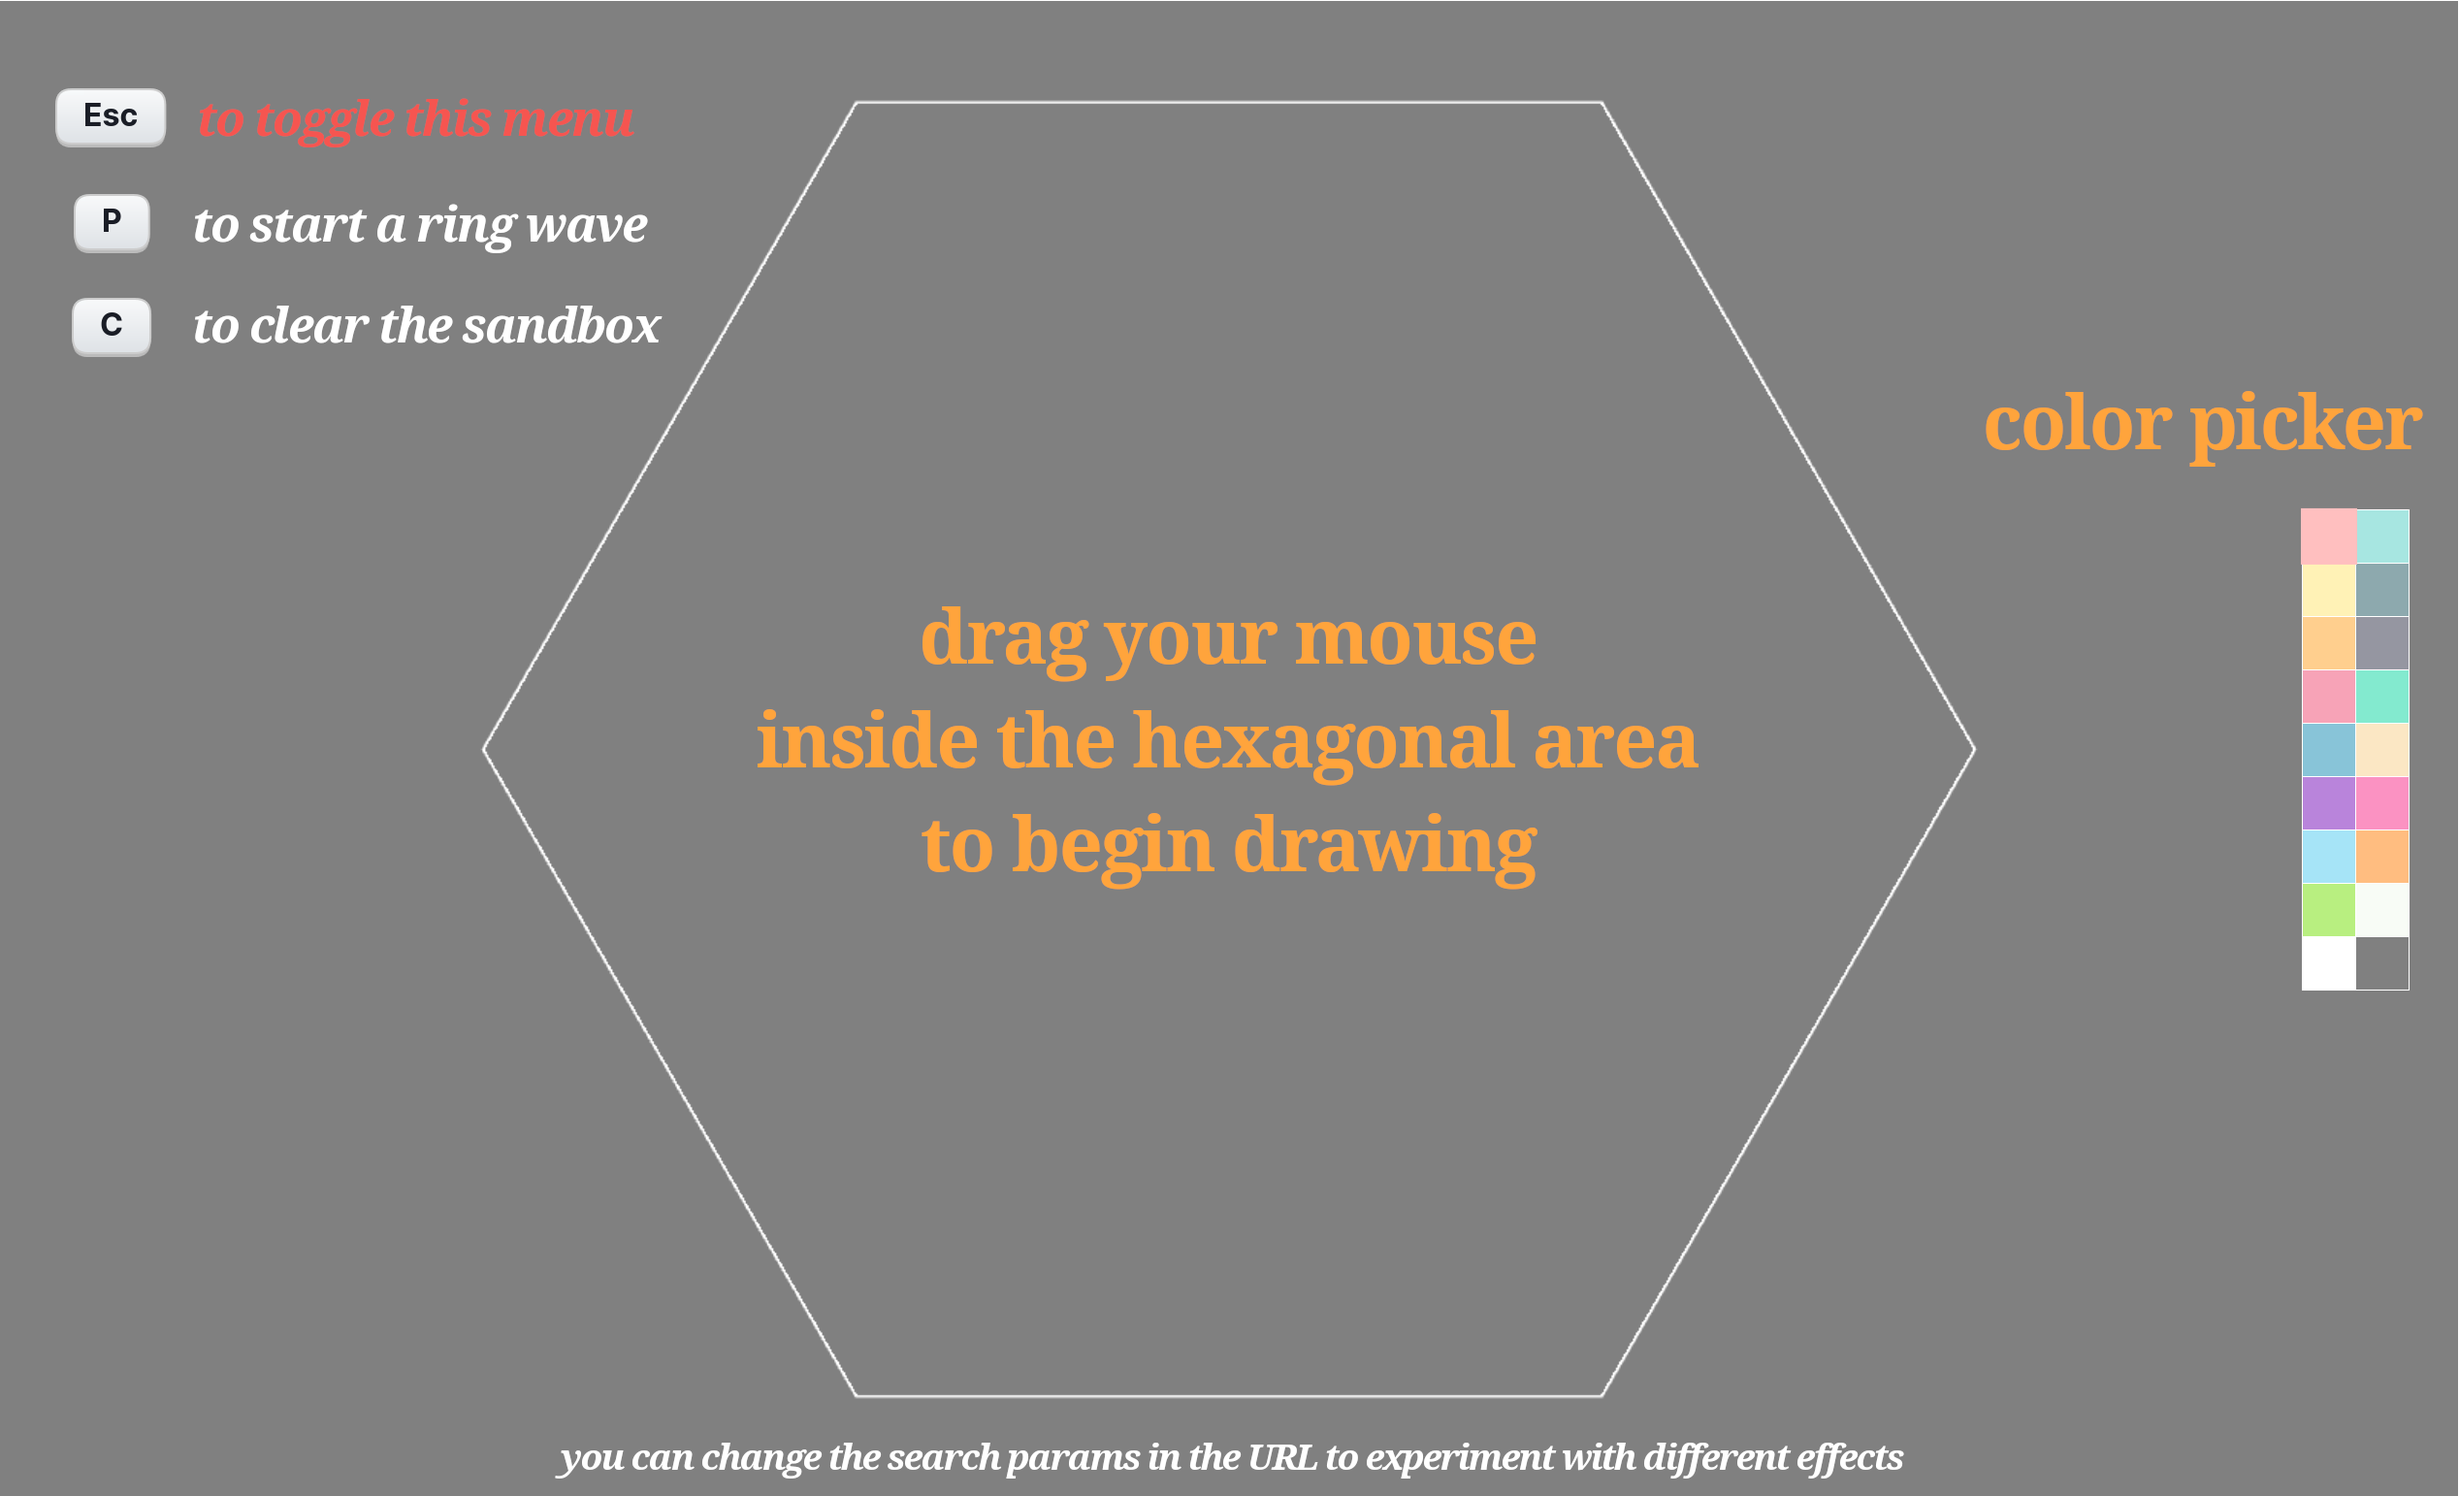
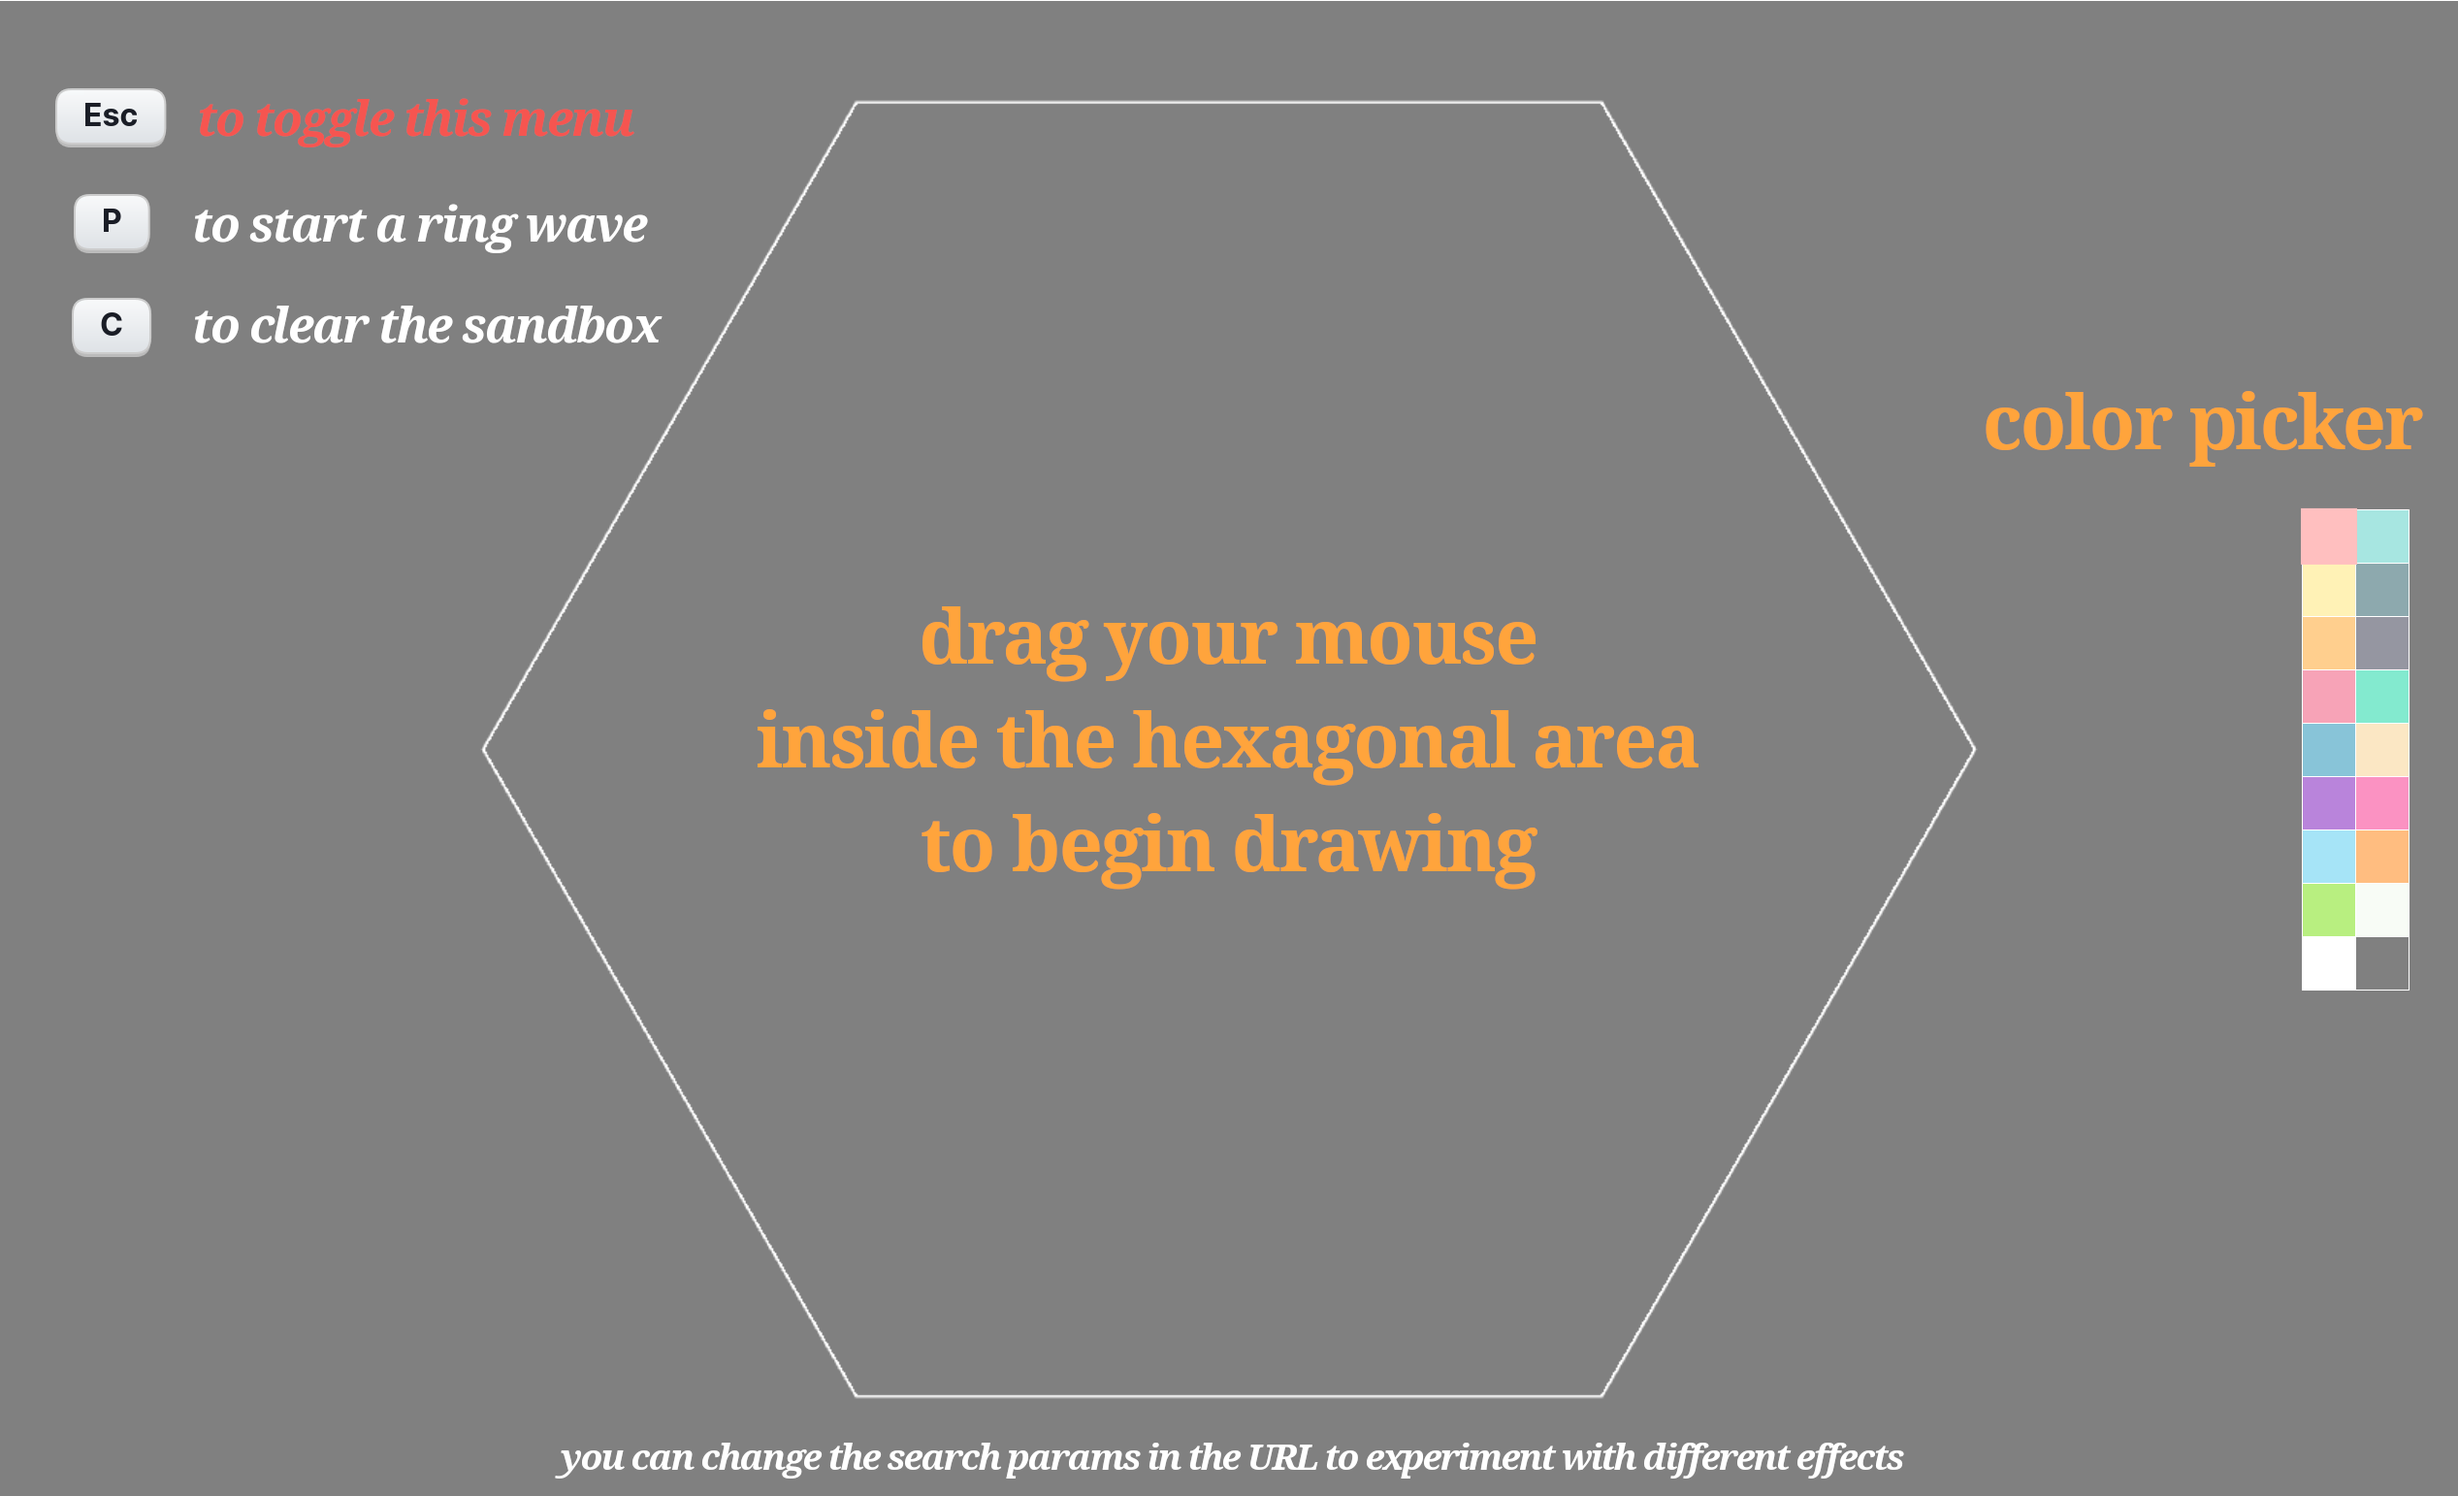
Info image & edge case fixes

Changed region(s): [[0.9976, 0.0, 1.0, 1.0], [0.6547, 0.965, 0.7482, 0.9961]]

diff --git a/js/index.js b/js/index.js
@@ -318,6 +318,9 @@ window.onkeyup = (e) => {
             throw "Couldn't find #info-curtain element.";
         info.style.display = show_info ? "block" : "none";
         crt.style.display = info.style.display;
+        shift_down = false;
+        mouse_down = false;
+        wave_queue.clear();
     }
 };
 const side_length = searchParams.getNumber("side_length", 32, 1), blend_value = searchParams.getNumber("blend_value", 0.008, 0, 1), wave_delay = searchParams.getNumber("wave_delay", 30, 1), wave_decay = searchParams.getNumber("wave_decay", 0.99, 0, 1), decay_min_radius = searchParams.getNumber("decay_min_radius", -2), new_wave_delay = searchParams.getNumber("new_wave_delay", 500, 1), new_wave_p = searchParams.getNumber("new_wave_p", 0.0002, 0, 1), new_color_p = searchParams.getNumber("new_color_p", 0.1, 0, 1), new_color_compl_p = searchParams.getNumber("new_color_compl_p", 0.5, 0, 1), grid_bg = searchParams.getUint8Color("grid_bg"), params = new URLSearchParams([
@@ -526,8 +529,10 @@ function draw() {
         const clear_color = packUint8(grid_bg);
         for (let i = 0; i < grid.adj_graph.length; ++i)
             grid.texture_u32view[i] = clear_color;
-        prevent_waves_last_id = wave_id + queued_wave_count;
-        wave_id = prevent_waves_last_id + 1;
+        if (queued_wave_count > 0) {
+            prevent_waves_last_id = wave_id + queued_wave_count;
+            wave_id = prevent_waves_last_id + 1;
+        }
         request_clear = false;
         texture_is_dirty = true;
     }

diff --git a/src/main.ts b/src/main.ts
@@ -78,6 +78,10 @@ window.onkeyup = (e:KeyboardEvent) => {
         
         info.style.display = show_info ? "block" : "none";
         crt.style.display = info.style.display;
+        
+        shift_down = false;
+        mouse_down = false;
+        wave_queue.clear();
     }
 };
 
@@ -374,8 +378,11 @@ function draw() {
         const clear_color = packUint8(grid_bg);
         for (let i=0; i<grid.adj_graph.length; ++i)
             grid.texture_u32view[i] = clear_color;
-        prevent_waves_last_id = wave_id + queued_wave_count;
-        wave_id = prevent_waves_last_id + 1;
+
+        if (queued_wave_count > 0) {
+            prevent_waves_last_id = wave_id + queued_wave_count;
+            wave_id = prevent_waves_last_id + 1;
+        }
         request_clear = false;
         texture_is_dirty = true;
     }

diff --git a/index.html b/index.html
@@ -95,7 +95,7 @@ html, body {
     left: 0;
     width: 100%;
     height: 100%;
-    background: black;
+    background: rgb(128,128,128);
     margin: 0;
     z-index: 1;
 }
